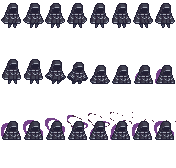
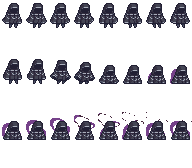
The summoning of believers has been completed.
# 신도 소환 완료.

diff --git a/DirectXK/Contents/DevilChurchWarlock.h b/DirectXK/Contents/DevilChurchWarlock.h
@@ -18,6 +18,11 @@ public:
 	ADevilChurchWarlock& operator=(const ADevilChurchWarlock& _Other) = delete;
 	ADevilChurchWarlock& operator=(ADevilChurchWarlock&& _Other) noexcept = delete;
 
+	inline void SetPosition(FVector _Pos)
+	{
+		SummonPos = _Pos;
+	}
+
 	inline void SummonWarlock()
 	{
 		State.ChangeState("WarlockSummon");
@@ -47,5 +52,8 @@ private :
 	USpriteRenderer* WarlockRenderer = nullptr;
 
 	UStateManager State;
+	FVector SummonPos = FVector::Zero;
+
+	int Hp = 40;
 };
 

diff --git a/DirectXK/Contents/Lasley_State.cpp b/DirectXK/Contents/Lasley_State.cpp
@@ -356,6 +356,7 @@ void ALasley::DownTick(float _DeltaTime)
 	if(true == IsDown('Y'))
 	{
 		std::shared_ptr<ADevilChurchWarlock> Warlock = GetWorld()->SpawnActor<ADevilChurchWarlock>("Slash");
+		Warlock->SetPosition(SummonPos[0]);
 		Warlock->SummonWarlock();
 	}
 
